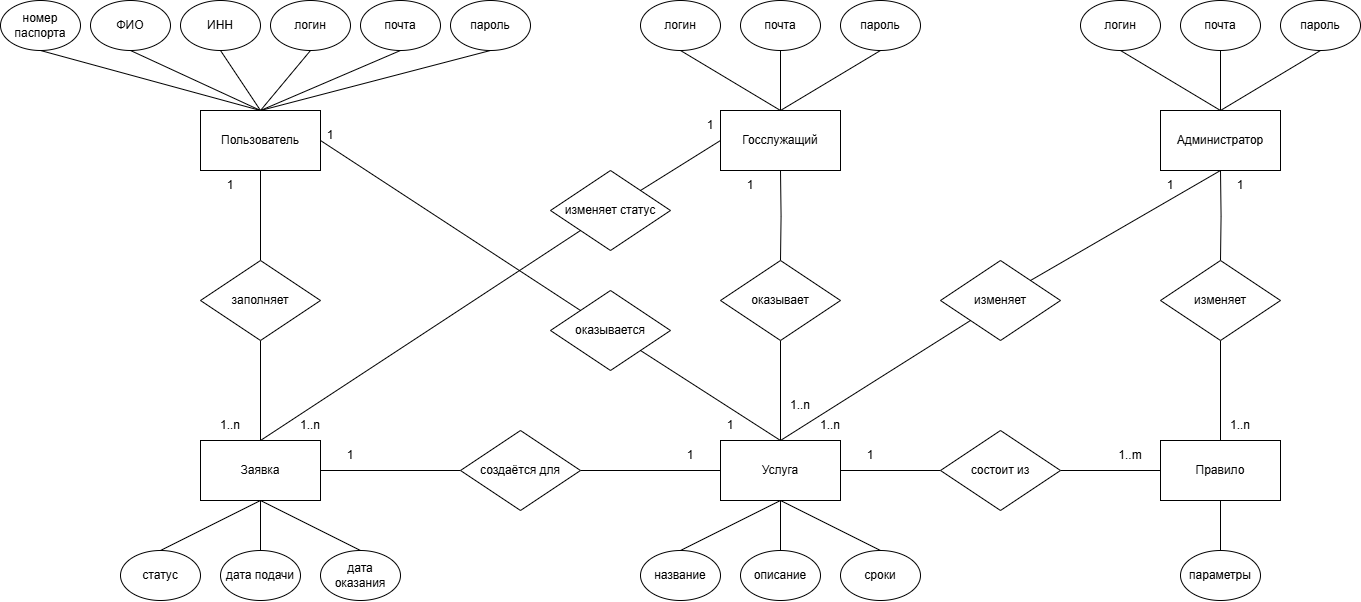
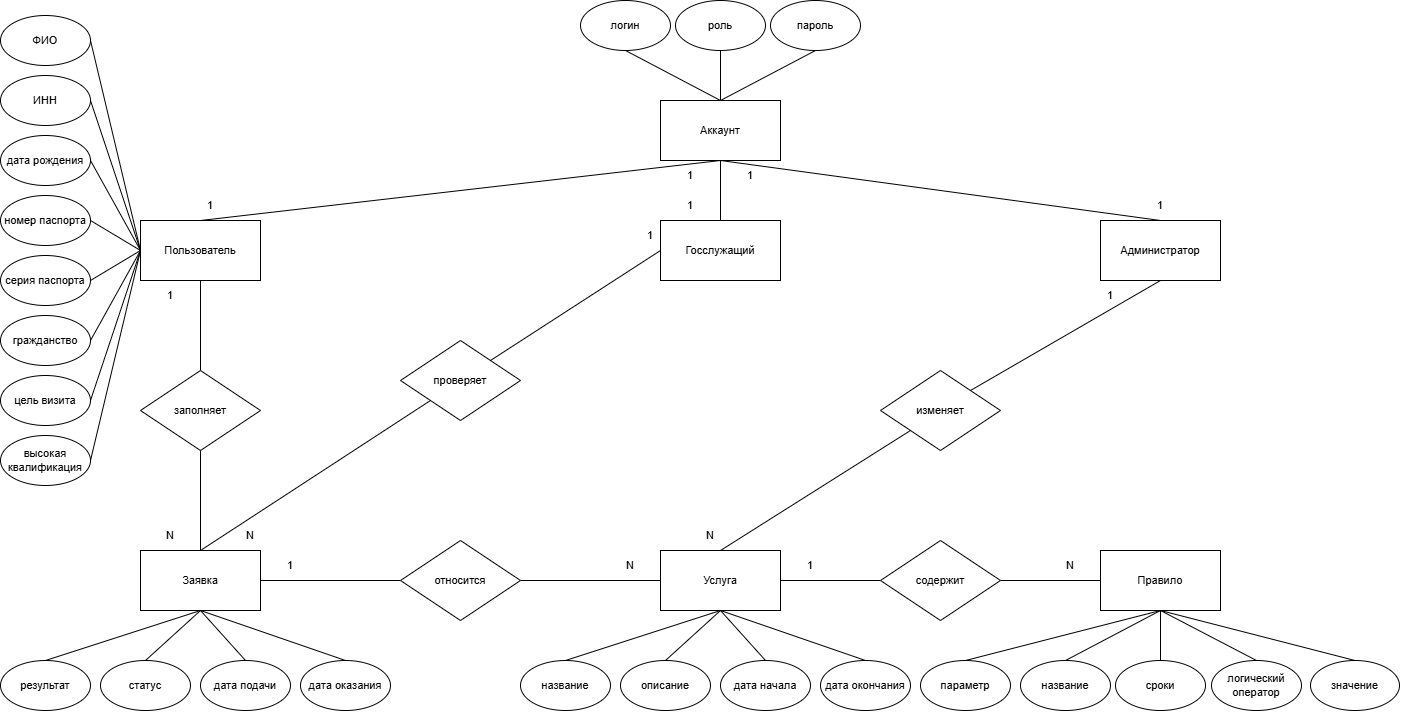
Changed ERD-Diagram

diff --git a/Lab2/ERD-Diagram.md b/Lab2/ERD-Diagram.md
@@ -1,62 +1,56 @@
 ![alt text](https://github.com/cuug/MigrationMap/blob/master/Lab2/ERD-Diagram.png)
 
 - Сущности:
+    - Аккаунт
+        - сущность, содержащая данные для аутентификации пользователя в системе
+            - Атрибуты:
+                1) логин - уникальное имя пользователя, которое используется для входа в информационную систему
+                2) пароль - набор символов, использующийся для подтверждения личности
+                3) роль - совокупность прав, которая определяет какие действия может совершать пользователь в системе
     - Пользователь
         - Физическое лицо, зарегистрированное в системе для подачи заявок на получение услуг
             - Атрибуты:
-                1) Номер паспорта
-                2) ФИО
-                3) ИНН
-                4) логин
-                5) почта
-                6) пароль
-            - Связи:
-                1) Пользователь - Услуга
-                2) Пользователь - Заявка
+                1) ФИО - персональные данные, относящиеся к определённому физическому лицу
+                2) ИНН - идентификационный номер налогоплательщика, который нужен в некоторый правилах
+                3) дата рождения - персональные данные, помогающие определить личность человека
+                4) номер паспорта - персональные данные, использующиеся для идентификации пользователя
+                5) серия паспорта - персональные данные, использующиеся для идентификации пользователя
+                6) гражданство - страна, в которой пользователь имеет гражданство
+                7) цель визита - причина, с которой пользователь приезжает в страну
+                8) высокая квалификация - атрибут, определяющий имеет ли пользователь высокую квалификацию в какой-либо сфере или нет
     - Госслужащий
         - Специалист, использующий систему для рассмотра заявок пользователей, изменения статуса заявок и оказания услуг.
-            - Атрибуты:
-                1) Логин
-                2) Почта
-                3) Пароль
-            - Связи:
-                1) Госслужащий - Услуга
-                2) Госслужащий - Заявка
     - Администратор
         - Специалист, использующий систему для редактирования услуг и правил\
-            - Атрибуты:
-                1) Логин
-                2) Почта
-                3) Пароль
-            - Связи:
-                1) Администратор - Правило
-                2) Администратор - Услуга
     - Заявка
         - Документ, подтверждающий намерение пользователя получить какую-либо услугу
             - Атрибуты:
-                1) Статус
-                2) Дата подачи
-                3) Дата оказания
-            - Связи:
-                1) Заявка - Пользователь
-                2) Заявка - Госслужащий
-                3) Заявка - Услуга
+                1) результат - результат выполнения услуги
+                2) статус - заявка может иметь разные статусы: отправлено, на рассмотрении, отказано, оказана
+                3) дата подачи - дата подачи заявки
+                4) дата оказания - дата оказания услуги
     - Услуга (Дорожная карта)
-        - Действие или комплекс действий, оказываемых госслужащим пользователю на основании поданной заявки
+        - Комплекс действий и правил, нужный для оказания услуги
             - Атрибуты:
-                1) Название
-                2) Описание
-                3) Сроки
-            - Связи:
-                1) Услуга - Правило
-                2) Услуга - Администратор
-                3) Услуга - Госслужащий
-                4) Услуга - Пользователь
-                5) Услуга - Заявка
+                1) название - название услуги
+                2) описание - описание услуги
+                3) дата начала - дата, с которой 
+                4) дата окончания - дата, 
     - Правило
-        -  Установленное требование или параметр, регулирующий процесс оказания услуги.
+        -  Установленное условие, необходимое для процесса оказания услуги.
             - Атрибуты:
-                1) Параметры
-            - Связи:
-                1) Правило - услуга
-                2) Правило - Администратор
+                1) название - название правила
+                2) параметр - параметр, который будет сравниваться
+                3) сроки - срок, в течение которого может быть оказана услуга
+                4) логический оператор - определяет тип сравнения
+                5) значение - значение параметра, по которому проверяется условие
+
+- Связи:
+    - Пользователь 1 - 1 Аккаунт: Пользователь может иметь только 1 аккаунт
+    - Госслужащий 1 - 1 Аккаунт: Госслужащий может иметь только 1 аккаунт
+    - Администратор 1 - 1 Аккаунт: Администратор может иметь только 1 аккаунт
+    - Пользователь 1 - N Заявка: Пользователья может отправлять множество заявок
+    - Госслужащий 1 - N Заявка: Госслужащий может проверять множество заявок
+    - Заявка N - 1 Услуга: Несколько заявок могут быть отправлены на одну услугу
+    - Услуга 1 - N Правило: Услуга может иметь множество правил
+    - Администратор 1 - N Услуга: Администратор может изменять множество услуг
